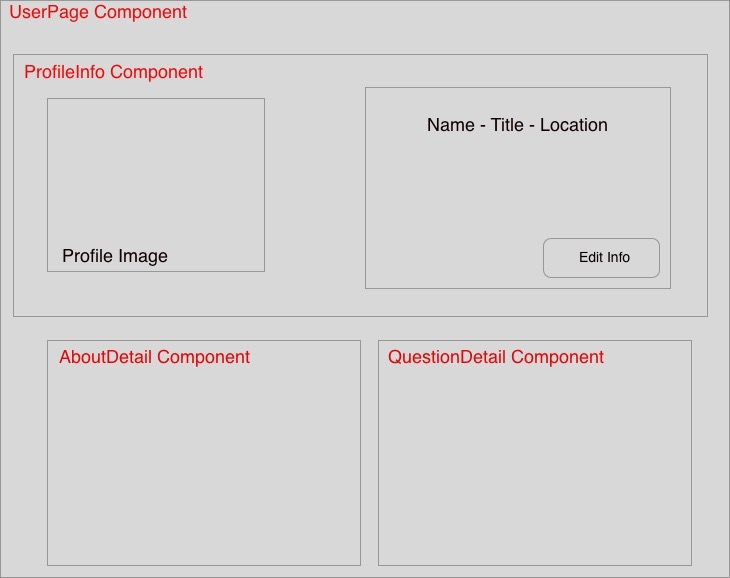
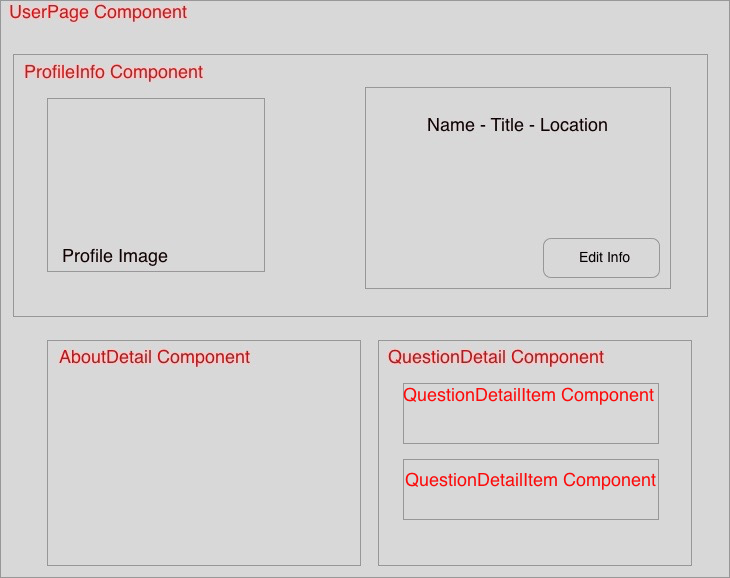
Added QuestionUpdateForm to Components and added a wireframe for it

Changed region(s): [[0.5425, 0.654, 0.9041, 0.7163], [0.5425, 0.8097, 0.9041, 0.8408]]

diff --git a/docs/phases/phase1.md b/docs/phases/phase1.md
@@ -1,20 +1,20 @@
-# Phase 1: User Authentication, Note Model and JSON API
+# Phase 1: User Authentication, User Model and JSON API
 
 ## Rails
 ### Models
 * User
-* Note
+
 
 ### Controllers
 * UsersController (create, new)
 * SessionsController (create, new, destroy)
-* Api::NotesController (create, destroy, index, show, update)
+* Api::UsersController (create, index, show, update)
 
 ### Views
 * users/new.html.erb
 * session/new.html.erb
-* notes/index.json.jbuilder
-* notes/show.json.jbuilder
+* users/index.json.jbuilder
+* users/show.json.jbuilder
 
 ## Flux
 ### Views (React Components)

diff --git a/docs/components.md b/docs/components.md
@@ -13,6 +13,7 @@
     * `ProfileInfo`
     * `AboutDetail`
     * `QuestionDetail`
+    * `QuestionUpdateForm`
     * `ProfileUpdateForm`
   * `ConnectionsIndex`
     * `ConnectionIndexItem`
